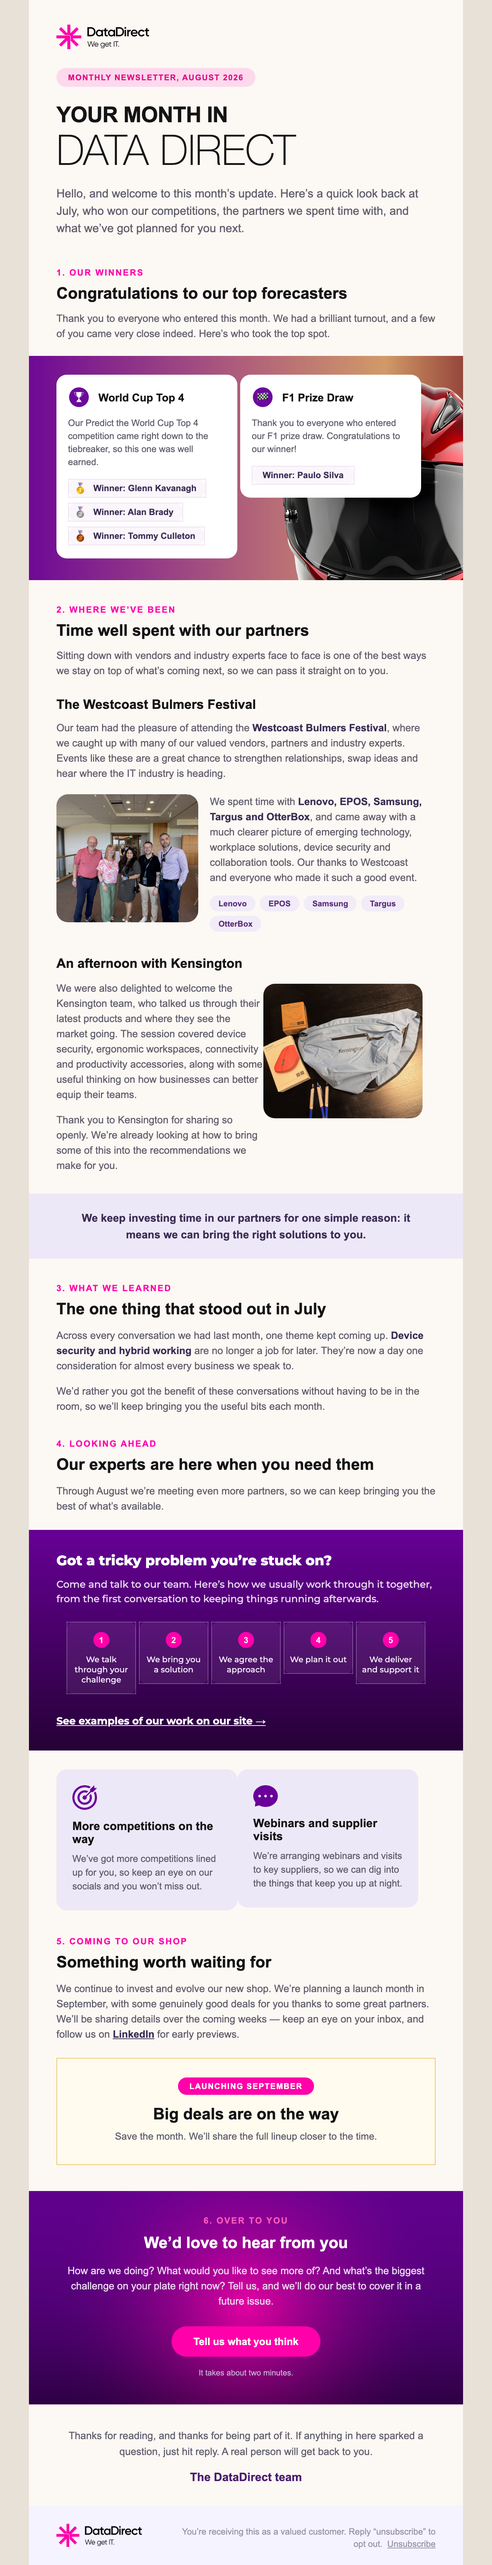
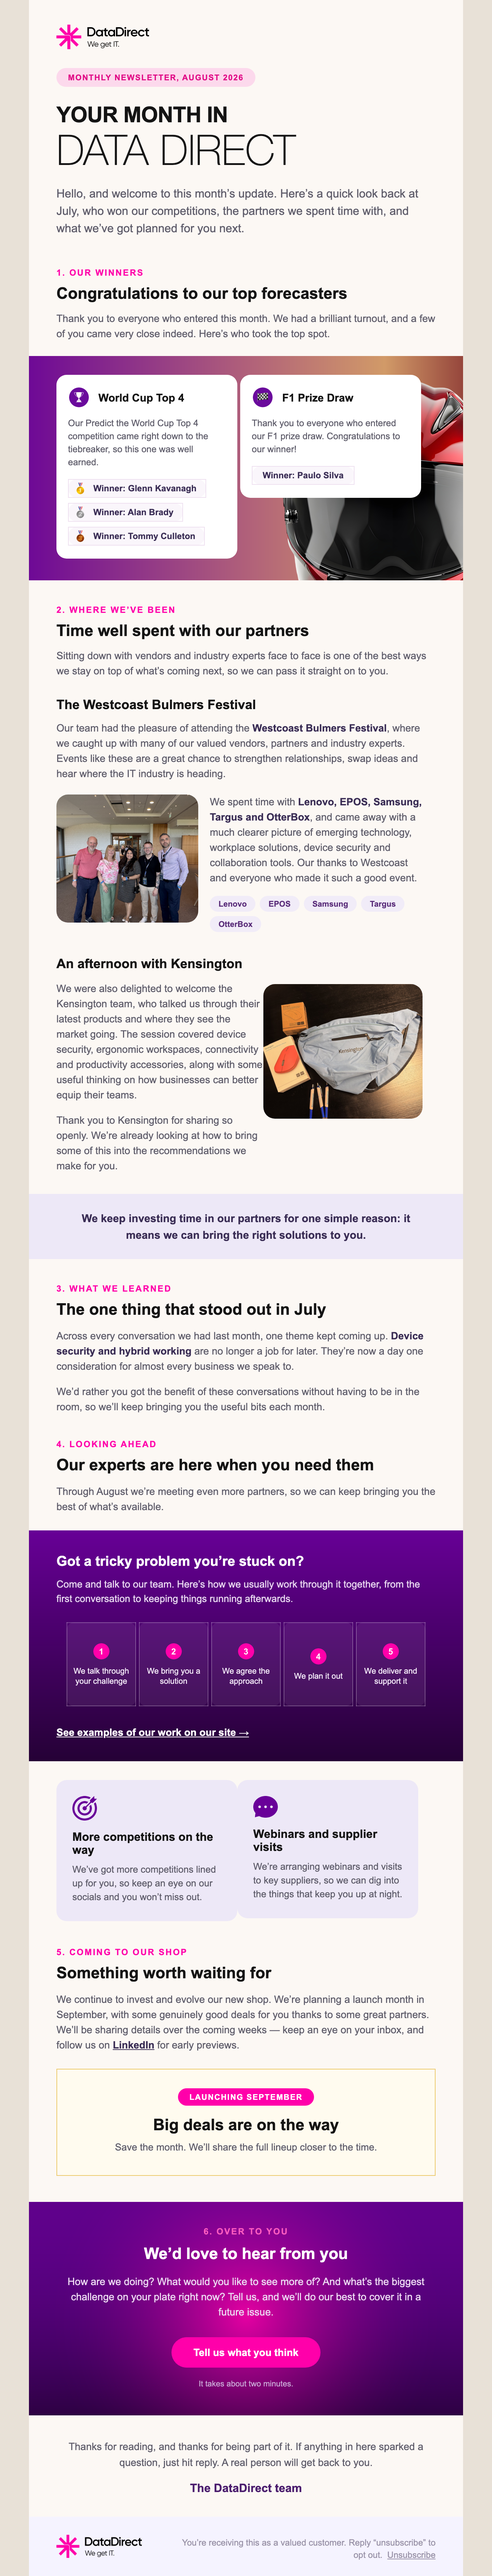
newsletter: revert lifecycle font to Arial, equalise box heights
- Font back to Arial (lighter than the Montserrat webfont); drop @import
- All 5 lifecycle boxes fixed to equal height (94px), radius kept

diff --git a/monthly-newsletter/index.html b/monthly-newsletter/index.html
@@ -12,8 +12,6 @@
 <noscript><xml><o:OfficeDocumentSettings><o:PixelsPerInch>96</o:PixelsPerInch><o:AllowPNG/></o:OfficeDocumentSettings></xml></noscript>
 <![endif]-->
 <style type="text/css">
-  /* Brand font (Gilroy). Falls back to Montserrat where web fonts load (Apple Mail / iOS), then Arial (Gmail / Outlook). */
-  @import url('https://fonts.googleapis.com/css2?family=Montserrat:wght@500;600;700;800&display=swap');
   html, body { margin:0 !important; padding:0 !important; height:100% !important; width:100% !important; }
   * { -ms-text-size-adjust:100%; -webkit-text-size-adjust:100%; }
   table, td { mso-table-lspace:0pt !important; mso-table-rspace:0pt !important; border-collapse:collapse !important; }
@@ -225,50 +223,50 @@
                    background="images/lookahead-bg.png"
                    style="background-color:#5a0a80; background-image:url('images/lookahead-bg.png'); background-size:cover; background-position:center top; background-repeat:no-repeat;">
               <tr><td class="px" style="padding:30px 38px 32px 38px;">
-                <div style="font-family:'Gilroy','Montserrat',Arial,Helvetica,sans-serif; font-size:19px; line-height:25px; font-weight:800; color:#ffffff;">Got a tricky problem you&rsquo;re stuck on?</div>
-                <p style="margin:10px 0 22px 0; font-family:'Gilroy','Montserrat',Arial,Helvetica,sans-serif; font-size:13.5px; line-height:20px; font-weight:500; color:#e7d6ef;">Come and talk to our team. Here&rsquo;s how we usually work through it together, from the first conversation to keeping things running afterwards.</p>
+                <div style="font-family:Arial,Helvetica,sans-serif; font-size:19px; line-height:25px; font-weight:800; color:#ffffff;">Got a tricky problem you&rsquo;re stuck on?</div>
+                <p style="margin:10px 0 22px 0; font-family:Arial,Helvetica,sans-serif; font-size:13.5px; line-height:20px; color:#e7d6ef;">Come and talk to our team. Here&rsquo;s how we usually work through it together, from the first conversation to keeping things running afterwards.</p>
                 <!-- 5 steps -->
                 <table role="presentation" width="100%" cellpadding="0" cellspacing="0" border="0"><tr><td style="font-size:0;" align="center">
                   <!--[if mso]><table role="presentation" cellpadding="0" cellspacing="0" border="0"><tr><![endif]-->
                   <!--[if mso]><td width="102" valign="top" style="padding:0 3px;"><![endif]-->
                   <div class="lc-step" style="display:inline-block; width:100%; max-width:96px; min-width:88px; vertical-align:top; margin:0 2px 8px 2px;">
-                    <table role="presentation" width="100%" cellpadding="0" cellspacing="0" border="0" style="background-color:rgba(255,255,255,0.08); border:1.5px solid rgba(255,255,255,0.28); border-radius:10.5px;"><tr><td align="center" style="padding:12px 6px 12px 6px;">
+                    <table role="presentation" width="100%" height="94" cellpadding="0" cellspacing="0" border="0" style="height:94px; background-color:rgba(255,255,255,0.08); border:1.5px solid rgba(255,255,255,0.28); border-radius:10.5px;"><tr><td align="center" valign="middle" height="94" style="height:94px; padding:10px 6px 10px 6px;">
                       <img src="images/num-1.png" width="24" height="24" alt="Step 1" style="width:24px;height:24px;display:block;margin:0 auto 8px auto;" />
-                      <div style="font-family:'Gilroy','Montserrat',Arial,Helvetica,sans-serif; font-size:11px; line-height:14px; font-weight:500; color:#f3e9f8;">We talk through your challenge</div>
+                      <div style="font-family:Arial,Helvetica,sans-serif; font-size:11px; line-height:14px; color:#f3e9f8;">We talk through your challenge</div>
                     </td></tr></table>
                   </div>
                   <!--[if mso]></td><td width="102" valign="top" style="padding:0 3px;"><![endif]-->
                   <div class="lc-step" style="display:inline-block; width:100%; max-width:96px; min-width:88px; vertical-align:top; margin:0 2px 8px 2px;">
-                    <table role="presentation" width="100%" cellpadding="0" cellspacing="0" border="0" style="background-color:rgba(255,255,255,0.08); border:1.5px solid rgba(255,255,255,0.28); border-radius:10.5px;"><tr><td align="center" style="padding:12px 6px 12px 6px;">
+                    <table role="presentation" width="100%" height="94" cellpadding="0" cellspacing="0" border="0" style="height:94px; background-color:rgba(255,255,255,0.08); border:1.5px solid rgba(255,255,255,0.28); border-radius:10.5px;"><tr><td align="center" valign="middle" height="94" style="height:94px; padding:10px 6px 10px 6px;">
                       <img src="images/num-2.png" width="24" height="24" alt="Step 2" style="width:24px;height:24px;display:block;margin:0 auto 8px auto;" />
-                      <div style="font-family:'Gilroy','Montserrat',Arial,Helvetica,sans-serif; font-size:11px; line-height:14px; font-weight:500; color:#f3e9f8;">We bring you a solution</div>
+                      <div style="font-family:Arial,Helvetica,sans-serif; font-size:11px; line-height:14px; color:#f3e9f8;">We bring you a solution</div>
                     </td></tr></table>
                   </div>
                   <!--[if mso]></td><td width="102" valign="top" style="padding:0 3px;"><![endif]-->
                   <div class="lc-step" style="display:inline-block; width:100%; max-width:96px; min-width:88px; vertical-align:top; margin:0 2px 8px 2px;">
-                    <table role="presentation" width="100%" cellpadding="0" cellspacing="0" border="0" style="background-color:rgba(255,255,255,0.08); border:1.5px solid rgba(255,255,255,0.28); border-radius:10.5px;"><tr><td align="center" style="padding:12px 6px 12px 6px;">
+                    <table role="presentation" width="100%" height="94" cellpadding="0" cellspacing="0" border="0" style="height:94px; background-color:rgba(255,255,255,0.08); border:1.5px solid rgba(255,255,255,0.28); border-radius:10.5px;"><tr><td align="center" valign="middle" height="94" style="height:94px; padding:10px 6px 10px 6px;">
                       <img src="images/num-3.png" width="24" height="24" alt="Step 3" style="width:24px;height:24px;display:block;margin:0 auto 8px auto;" />
-                      <div style="font-family:'Gilroy','Montserrat',Arial,Helvetica,sans-serif; font-size:11px; line-height:14px; font-weight:500; color:#f3e9f8;">We agree the approach</div>
+                      <div style="font-family:Arial,Helvetica,sans-serif; font-size:11px; line-height:14px; color:#f3e9f8;">We agree the approach</div>
                     </td></tr></table>
                   </div>
                   <!--[if mso]></td><td width="102" valign="top" style="padding:0 3px;"><![endif]-->
                   <div class="lc-step" style="display:inline-block; width:100%; max-width:96px; min-width:88px; vertical-align:top; margin:0 2px 8px 2px;">
-                    <table role="presentation" width="100%" cellpadding="0" cellspacing="0" border="0" style="background-color:rgba(255,255,255,0.08); border:1.5px solid rgba(255,255,255,0.28); border-radius:10.5px;"><tr><td align="center" style="padding:12px 6px 12px 6px;">
+                    <table role="presentation" width="100%" height="94" cellpadding="0" cellspacing="0" border="0" style="height:94px; background-color:rgba(255,255,255,0.08); border:1.5px solid rgba(255,255,255,0.28); border-radius:10.5px;"><tr><td align="center" valign="middle" height="94" style="height:94px; padding:10px 6px 10px 6px;">
                       <img src="images/num-4.png" width="24" height="24" alt="Step 4" style="width:24px;height:24px;display:block;margin:0 auto 8px auto;" />
-                      <div style="font-family:'Gilroy','Montserrat',Arial,Helvetica,sans-serif; font-size:11px; line-height:14px; font-weight:500; color:#f3e9f8;">We plan it out</div>
+                      <div style="font-family:Arial,Helvetica,sans-serif; font-size:11px; line-height:14px; color:#f3e9f8;">We plan it out</div>
                     </td></tr></table>
                   </div>
                   <!--[if mso]></td><td width="102" valign="top" style="padding:0 3px;"><![endif]-->
                   <div class="lc-step" style="display:inline-block; width:100%; max-width:96px; min-width:88px; vertical-align:top; margin:0 2px 8px 2px;">
-                    <table role="presentation" width="100%" cellpadding="0" cellspacing="0" border="0" style="background-color:rgba(255,255,255,0.08); border:1.5px solid rgba(255,255,255,0.28); border-radius:10.5px;"><tr><td align="center" style="padding:12px 6px 12px 6px;">
+                    <table role="presentation" width="100%" height="94" cellpadding="0" cellspacing="0" border="0" style="height:94px; background-color:rgba(255,255,255,0.08); border:1.5px solid rgba(255,255,255,0.28); border-radius:10.5px;"><tr><td align="center" valign="middle" height="94" style="height:94px; padding:10px 6px 10px 6px;">
                       <img src="images/num-5.png" width="24" height="24" alt="Step 5" style="width:24px;height:24px;display:block;margin:0 auto 8px auto;" />
-                      <div style="font-family:'Gilroy','Montserrat',Arial,Helvetica,sans-serif; font-size:11px; line-height:14px; font-weight:500; color:#f3e9f8;">We deliver and support it</div>
+                      <div style="font-family:Arial,Helvetica,sans-serif; font-size:11px; line-height:14px; color:#f3e9f8;">We deliver and support it</div>
                     </td></tr></table>
                   </div>
                   <!--[if mso]></td></tr></table><![endif]-->
                 </td></tr></table>
                 <div style="margin-top:20px;">
-                  <a href="https://www.datadirect.ie" target="_blank" style="font-family:'Gilroy','Montserrat',Arial,Helvetica,sans-serif; font-size:14px; font-weight:700; color:#ffffff; text-decoration:underline;">See examples of our work on our site &rarr;</a>
+                  <a href="https://www.datadirect.ie" target="_blank" style="font-family:Arial,Helvetica,sans-serif; font-size:14px; font-weight:700; color:#ffffff; text-decoration:underline;">See examples of our work on our site &rarr;</a>
                 </div>
               </td></tr>
             </table>
